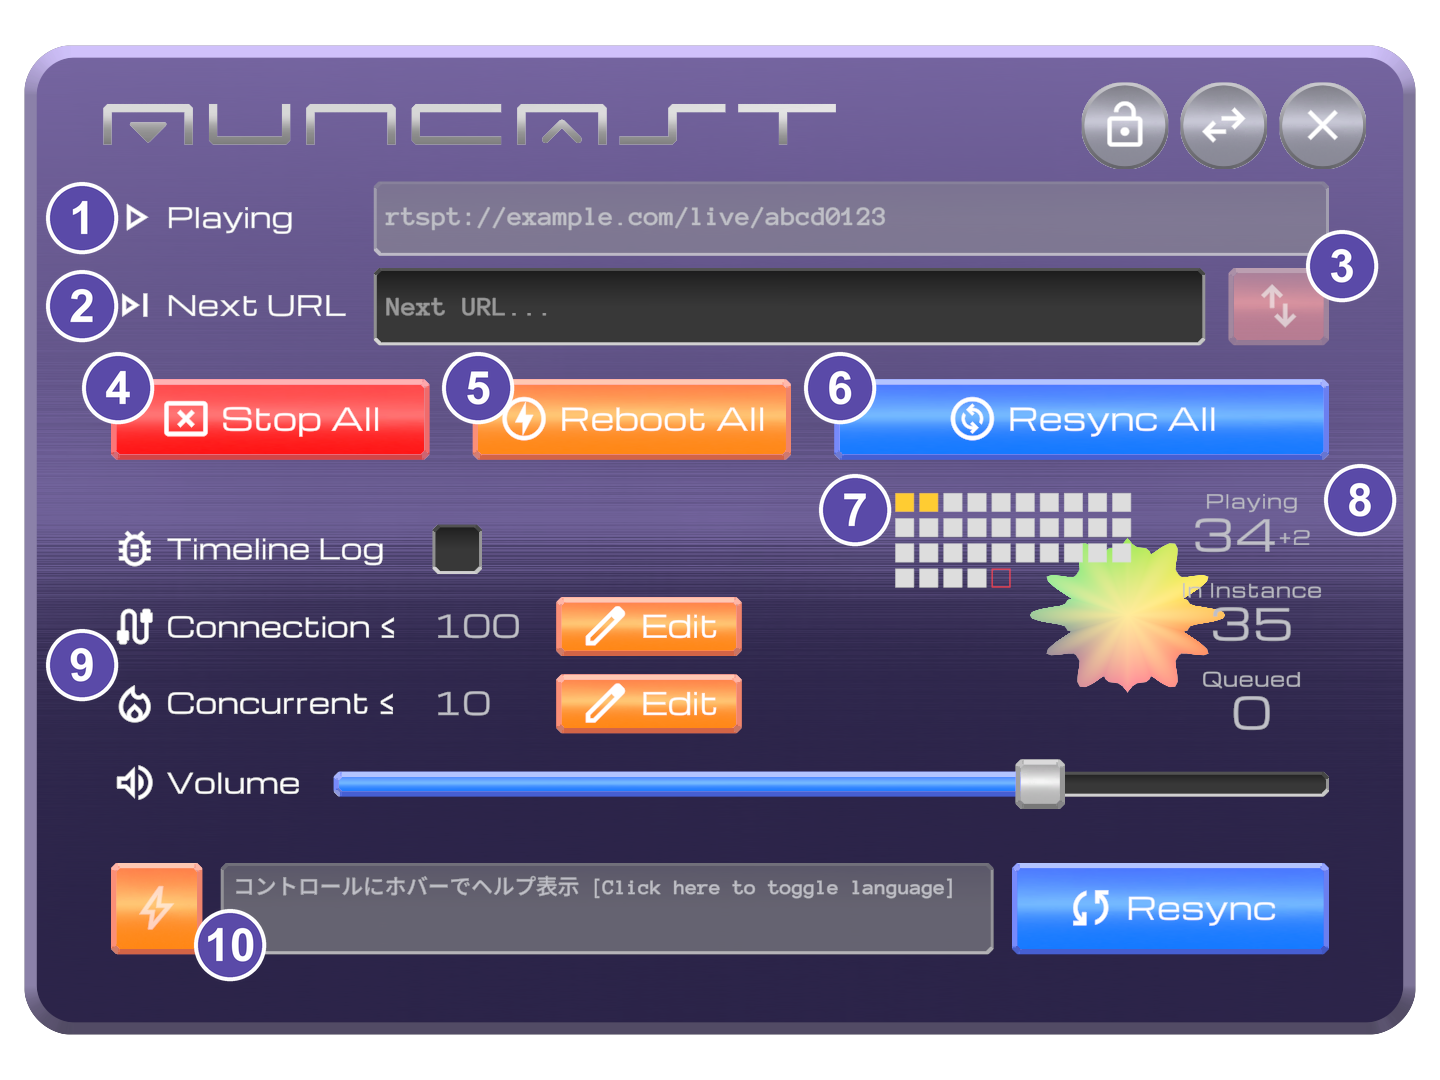
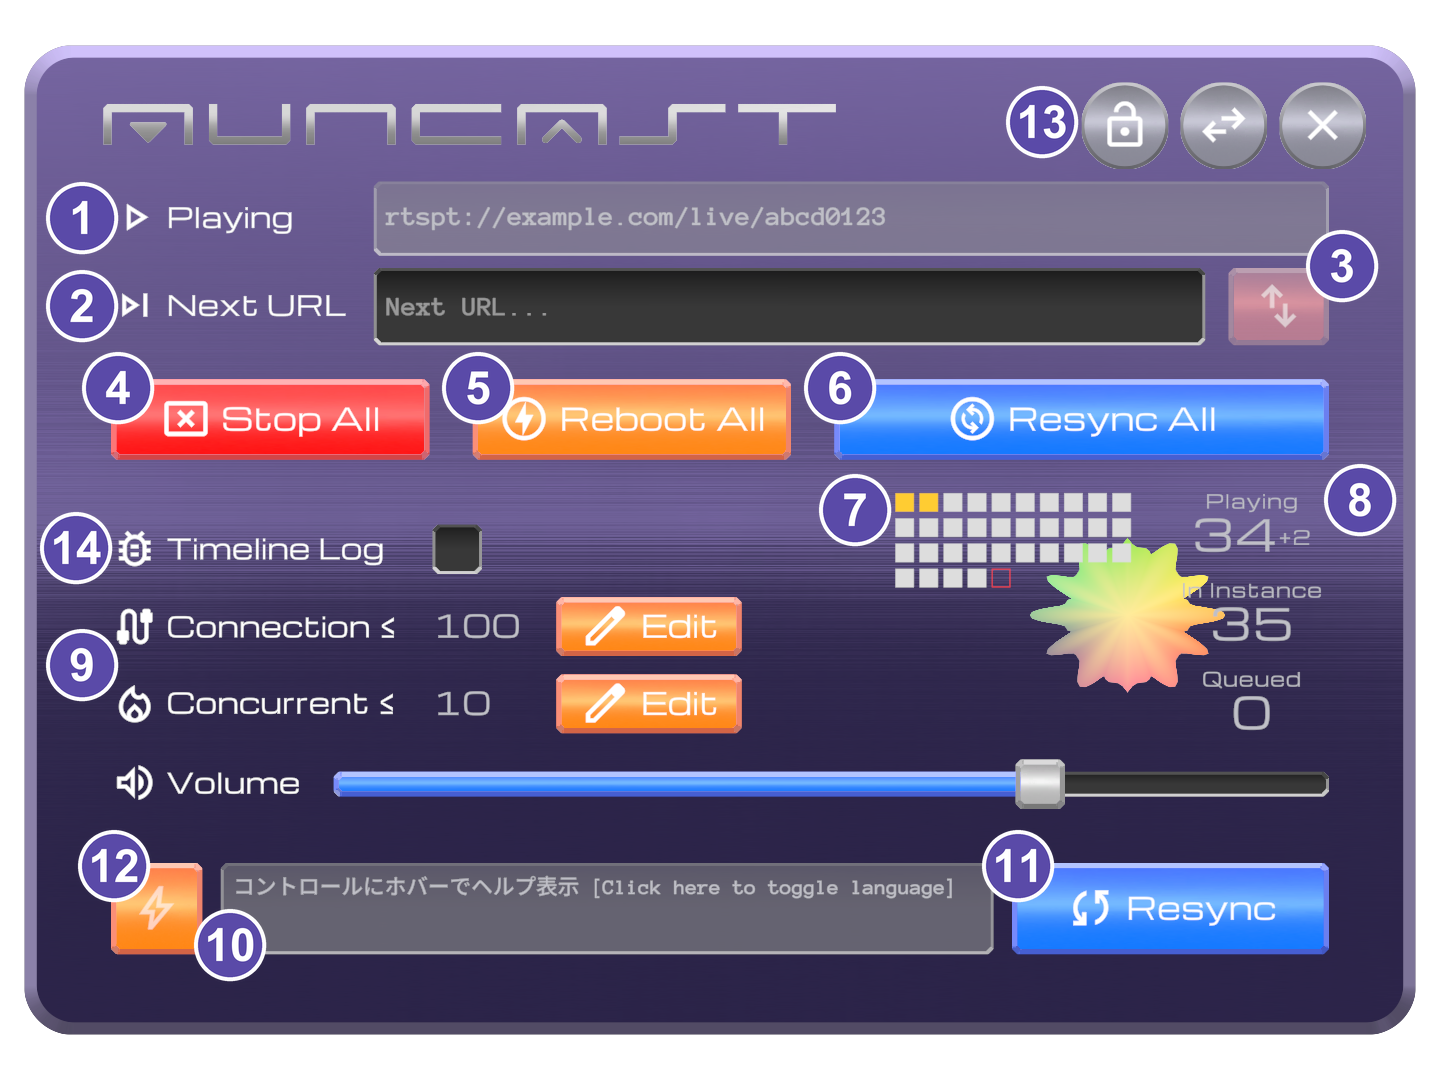
docs(manual): パネル説明と注釈画像を更新

diff --git a/Tools/annotate-manual-screenshots.py b/Tools/annotate-manual-screenshots.py
@@ -16,7 +16,7 @@ FONT_PATH = r"C:\Windows\Fonts\arialbd.ttf"
 FONT_SIZE = 46
 
 # ジョブ定義: (元画像, 出力画像, [(番号, x, y), ...])
-# panel-viewer.md「手元パネルの各部」の表①〜⑧に対応
+# panel-viewer.md「手元パネルの各部」の表①〜⑨に対応
 JOBS = [
     (
         f"{ASSETS}/portable-panel-viewer.png",
@@ -30,9 +30,10 @@ JOBS = [
             (6, 76, 783),    # Volume
             (7, 76, 621),    # 再生ステータス表示（サムネイル下）
             (8, 1372, 68),   # × ボタン
+            (9, 1165, 68),   # ビュー切替ボタン（⇔）
         ],
     ),
-    # panel-staff.md「スタッフビュー」の各部①〜⑩に対応
+    # panel-staff.md「スタッフビュー」の各部①〜⑭に対応
     (
         f"{ASSETS}/portable-panel-staff.png",
         f"{ASSETS}/portable-panel-staff-annotated.png",
@@ -47,6 +48,10 @@ JOBS = [
             (8, 1360, 500),  # 人数表示（Playing / Instance / Queued）
             (9, 82, 665),    # Connections / Concurrent の Edit
             (10, 230, 945),  # ヘルプ表示（言語切替）
+            (11, 1018, 866), # Resync ボタン（下部・観客ビューと同じ）
+            (12, 114, 866),  # Reboot ボタン（⚡・下部・観客ビューと同じ）
+            (13, 1042, 122), # スタッフ操作ロックボタン（🔒・右上）
+            (14, 76, 548),   # Timeline Log トグル
         ],
     ),
 ]

diff --git a/Manual/src/operation/panel-staff.md b/Manual/src/operation/panel-staff.md
@@ -38,10 +38,13 @@
 | ⑦ **状態インジケーター** | 全員の状態を色で表示する（→ [モニタリング](monitoring.md)） |
 | ⑧ **人数表示** | Playing / Instance / Queued の人数（→ [モニタリング](monitoring.md)） |
 | ⑨ **Connection≤ / Concurrent≤** | 同時接続 / Resync上限の現在値と **Edit** ボタン |
-| ⑩ **ヘルプ表示** | ポイントしたUI部品の説明欄。押すと日本語 / 英語を切替 |
+| ⑩ **ヘルプ表示** | ポイントしたUI部品の説明欄<br>インタラクトで日本語 / 英語を切替 |
+| ⑪ **Resync ボタン** | 自分の端末を再同期する。[観客ビューの Resync](panel-viewer.md#resync-button)と同じ |
+| ⑫ **Reboot ボタン**（⚡） | 自分の端末を切断→再接続する。[観客ビューの Reboot](panel-viewer.md#reboot-button)と同じ |
+| ⑬ **操作ロックボタン**（鍵アイコン） | スタッフ操作を一時的に施錠し、誤操作を防ぐ（→ [操作ロック](#staff-lock)） |
+| ⑭ **Timeline Log** | 診断用タイムラインログのオン / オフ（→ [タイムラインログ](#timeline-logging)） |
 
-<!--@rv タイムラインログ、スタッフ操作ロックボタンの説明も必要。Resync、Rebootボタンも挙げて（ヘルプ表示は既にここに挙がっているが、それも加えて）観客ビューのものと同じである旨を記載。画像への番号の再埋め込みが必要だが、フォントや色が変わらないようにしたい。どうしても変わってしまう場合はpanel-viewer.mdの同様の校正指示と併せて再生成 -->
-<!--@rv タイムラインログは負荷が高い旨の警告表示をsettings.mdからここに移設 -->
+⑪⑫ の Resync / Reboot と Volume は、スタッフビューでも **自分の端末に対する操作** です。挙動は観客ビューと同じなので、[手元パネル：観客ビュー](panel-viewer.md)を参照してください。
 
 ---
 
@@ -101,12 +104,22 @@
 
 ---
 
+## 操作ロック（誤操作防止） {#staff-lock}
+
+スタッフビュー右上の **操作ロックボタン**（鍵アイコン）は、スタッフ操作を一時的に **施錠** して誤操作を防ぐスイッチです。
+
+- 施錠中は、送信・Stop All・Reboot All・Resync All などスタッフ操作のボタンが押せなくなります。
+- もう一度押すと解錠され、再び操作できます。アイコンは施錠中／解錠中で切り替わります。
+- これは **自分の端末だけ** のローカルな切り替えです。他のスタッフによる操作を禁止する効果はありません。
+
+---
+
 ## タイムラインログ（診断用） {#timeline-logging}
 
 スタッフビューには、再生・Resync の状態遷移を構造化ログとして出力する **タイムラインログ** のトグルがあります。不具合の原因を調べる際、ログ出力を手掛かりにできます。
 
 !!! warning "負荷が高いため通常はオフ"
-    **有効にすると負荷がかかります。** トラブルの診断時のみ一時的にオンにしてください。詳細は[設定リファレンス](../setup/settings.md#params)を参照してください。
+    タイムラインログは再生・Resync の状態遷移を逐次出力するため、**有効にすると負荷がかかります**。トラブルの診断時のみ一時的にオンにし、通常運用ではオフのままにしてください。
 
 ---
 

diff --git a/Manual/src/operation/panel-viewer.md b/Manual/src/operation/panel-viewer.md
@@ -22,8 +22,7 @@
 | ⑥ **Volume** | 音量 |
 | ⑦ **再生ステータス表示**（スクリーン下部） | 現在のプレイヤーの状態（例: Idle＝待機中） |
 | ⑧ **× ボタン** | パネルを閉じる |
-
-<!--@rv ビュー切替ボタンの説明も必要。画像への番号の再埋め込みが必要だが、フォントや色が変わらないようにしたい。どうしても変わってしまう場合はpanel-staff.mdの同様の校正指示と併せて再生成 -->
+| ⑨ **ビュー切替ボタン**（⇔） | [スタッフビュー](panel-staff.md)へ切り替える<br>解錠時のみ表示されます（→ [スタッフビューを解錠する](panel-staff.md#unlock)） |
 
 ここでは特に重要な２つのボタンを説明します。
 
@@ -115,8 +114,8 @@ AunCast は、音声が一定時間（約２秒）出ない状態が続くと自
 | **オン**（初期設定） | 通常はこのまま。曲間などを契機にドリフトを解消する |
 | **オフ** | 曲間・MC・静かな演出など、**意図的な無音が多い配信**で、自動再同期を避ける |
 
-!!! warning "オフにしても、他の自動復旧は停止しません"
-    オフにするのは「**無音を契機とする自動再同期のみ**」です。再生停止時の自動再同期や、手動の Resync ボタンは、オフにしても従来どおり有効です。
+!!! warning "オフにしても、ドリフト検知時の自動再同期は停止しません"
+    オフにするのは「**無音を契機とする自動再同期のみ**」です。ドリフト検知時の自動再同期や、手動の Resync ボタンは、オフにしても従来どおり有効です。
 
 ---
 

diff --git a/Manual/src/setup/settings.md b/Manual/src/setup/settings.md
@@ -133,7 +133,7 @@ AunCast の運用において、配信サーバーの同時接続上限に合わ
 | タイムラインログ | オフ | 再生・Resync診断用の構造化ログを出力する |
 
 !!! warning "タイムラインログは高負荷"
-    タイムラインログは再生・Resync の状態遷移を逐次出力するため、**有効にすると負荷がかかります**。トラブルの診断時のみ一時的にオンにし、通常運用ではオフのままにしてください。スタッフビューのトグルからも切り替えられます。
+    **有効にすると負荷がかかります。** 通常運用ではオフのままにしてください。スタッフビューのトグルからも切り替えられます。運用中の切り替え方法と詳しい注意は[手元パネル：スタッフビュー](../operation/panel-staff.md#timeline-logging)を参照してください。
 
 ## テーマの適用
 

diff --git a/Manual/src/background.md b/Manual/src/background.md
@@ -8,6 +8,8 @@
 
 AunCast は、VRChat 内の音楽ライブなど、**出演者がアバターでパフォーマンスしながら高品質な音声を配信に載せるイベント** を前提に開発されました。
 
+![VRChatライブの様子](./assets/background-live-01.jpg){ width="640" }
+
 VRChat のアバターボイスは、音楽やライブ演奏を十分な品質で届ける用途には向きません。そのため、この種のイベントでは、出演者の音声をライブ配信に載せ、ワールド内で再生するという運用がたびたび用いられます。
 
 低遅延ライブ配信では、再生を続けるうちに観客ごとの再生位置が少しずつズレる（ドリフトが発生する）ことがあります。音楽ライブでは、このズレが以下の問題につながります。

diff --git a/Manual/STYLE.md b/Manual/STYLE.md
@@ -67,6 +67,7 @@
 ## 6. スクリーンショット
 
 - 実 UI のスクリーンショットを使い、`Manual/src/assets/` に意味のある名前で配置する。
+- **番号バッジ（①②…）付きの図は手描きしない**。素の画像（`*-annotated` でない方）を配置し、[`Tools/annotate-manual-screenshots.py`](../Tools/annotate-manual-screenshots.py) の `JOBS` にバッジ座標を追記して再実行する。フォント・色は同スクリプトの定数（紫 #5a4aa8・Arial Bold）で統一され、番号を追加・変更してもスタイルが揺れない。
 
 ## 7. プレースホルダ（未確定事項）
 
